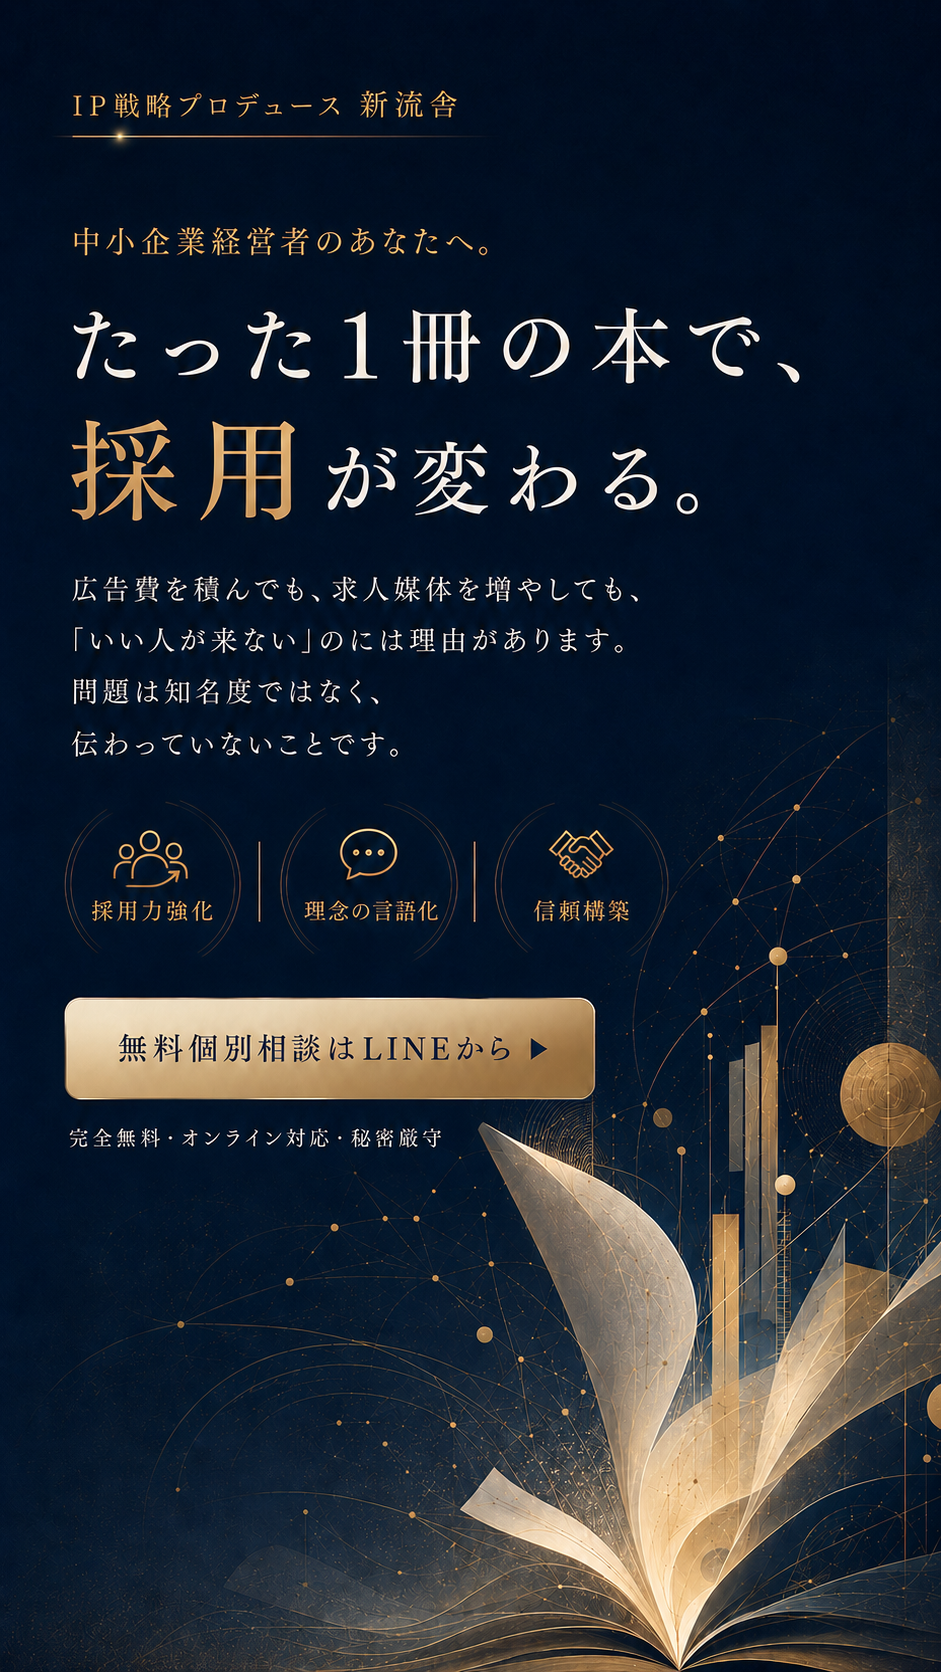
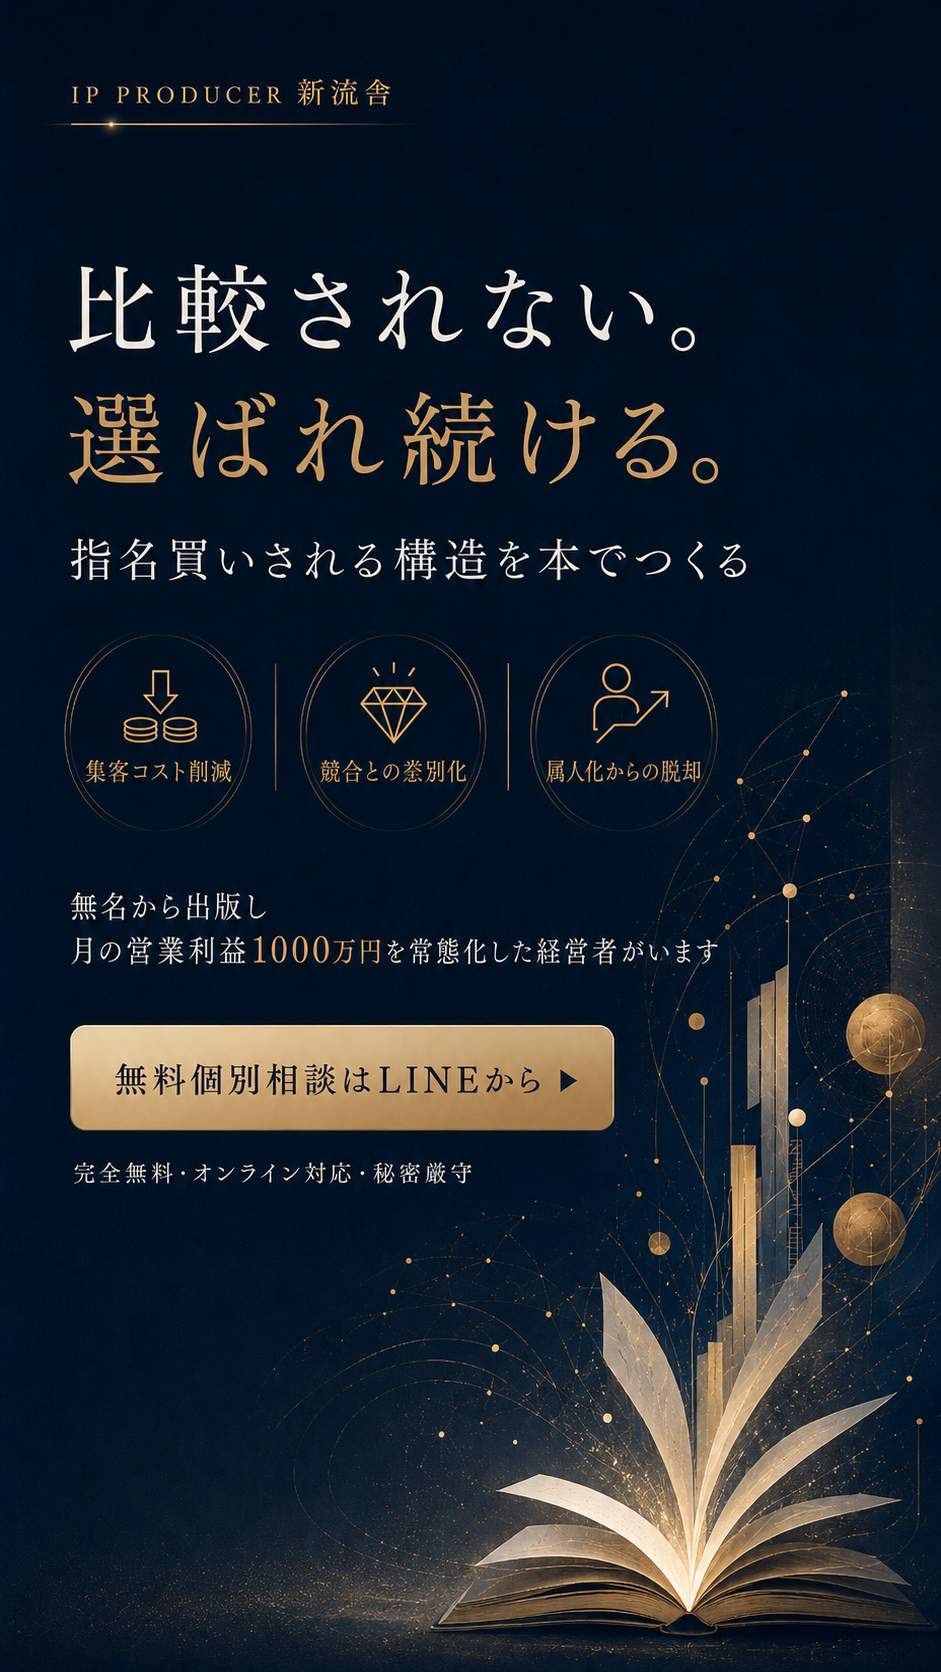
v11: replace text hero with image

diff --git a/v11/index.html b/v11/index.html
@@ -35,63 +35,11 @@
 
     /* ─── HERO ─── */
     .hero {
-      background: var(--navy);
-      padding: 56px 28px 52px;
-      position: relative;
-      overflow: hidden;
-      text-align: center;
+      width: 100%;
     }
-    .hero::before {
-      content: '';
-      position: absolute;
-      bottom: -60px; right: -60px;
-      width: 260px; height: 260px;
-      background: radial-gradient(circle, rgba(201,168,92,0.09) 0%, transparent 70%);
-      pointer-events: none;
-    }
-    .hero::after {
-      content: '';
-      position: absolute;
-      top: -40px; left: -40px;
-      width: 200px; height: 200px;
-      background: radial-gradient(circle, rgba(201,168,92,0.06) 0%, transparent 70%);
-      pointer-events: none;
-    }
-    .hero-eyebrow {
-      font-size: 12px;
-      letter-spacing: 0.2em;
-      color: var(--gold);
-      margin-bottom: 20px;
-    }
-    .hero-title {
-      font-family: 'Noto Serif JP', serif;
-      font-size: 40px;
-      font-weight: 700;
-      line-height: 1.45;
-      color: var(--white);
-      margin-bottom: 20px;
-      letter-spacing: 0.02em;
-    }
-    .hero-title span { color: var(--gold); }
-    .hero-bar {
-      width: 36px;
-      height: 1px;
-      background: var(--gold);
-      margin: 0 auto 20px;
-    }
-    .hero-sub {
-      font-family: 'Noto Serif JP', serif;
-      font-size: 16px;
-      font-weight: 400;
-      line-height: 1.8;
-      color: var(--white-dim);
-      margin-bottom: 32px;
-    }
-    .hero-note {
-      font-size: 13px;
-      color: var(--muted);
-      line-height: 1.8;
-      margin-bottom: 32px;
+    .hero img {
+      width: 100%;
+      display: block;
     }
 
     /* ─── SECTION BASE ─── */
@@ -599,13 +547,7 @@
 
 <!-- HERO -->
 <section class="hero">
-  <p class="hero-eyebrow">IP戦略プロデュース ／ 新流舎</p>
-  <h1 class="hero-title">比較されない。<br><span>選ばれ続ける。</span></h1>
-  <div class="hero-bar"></div>
-  <p class="hero-sub">「指名買い」される構造を、<br>「本」でつくります。</p>
-  <p class="hero-note">広告を止めると集客が止まる。<br>そのループから抜け出す方法があります。</p>
-  <a href="#" class="btn-main">無料個別相談はLINEから ▶</a>
-  <p class="btn-note">完全無料 ・ 強引な営業なし ・ 秘密厳守</p>
+  <img src="hero.png" alt="比較されない。選ばれ続ける。｜新流舎 出版IPプロデュース">
 </section>
 
 <div class="divider"></div>
